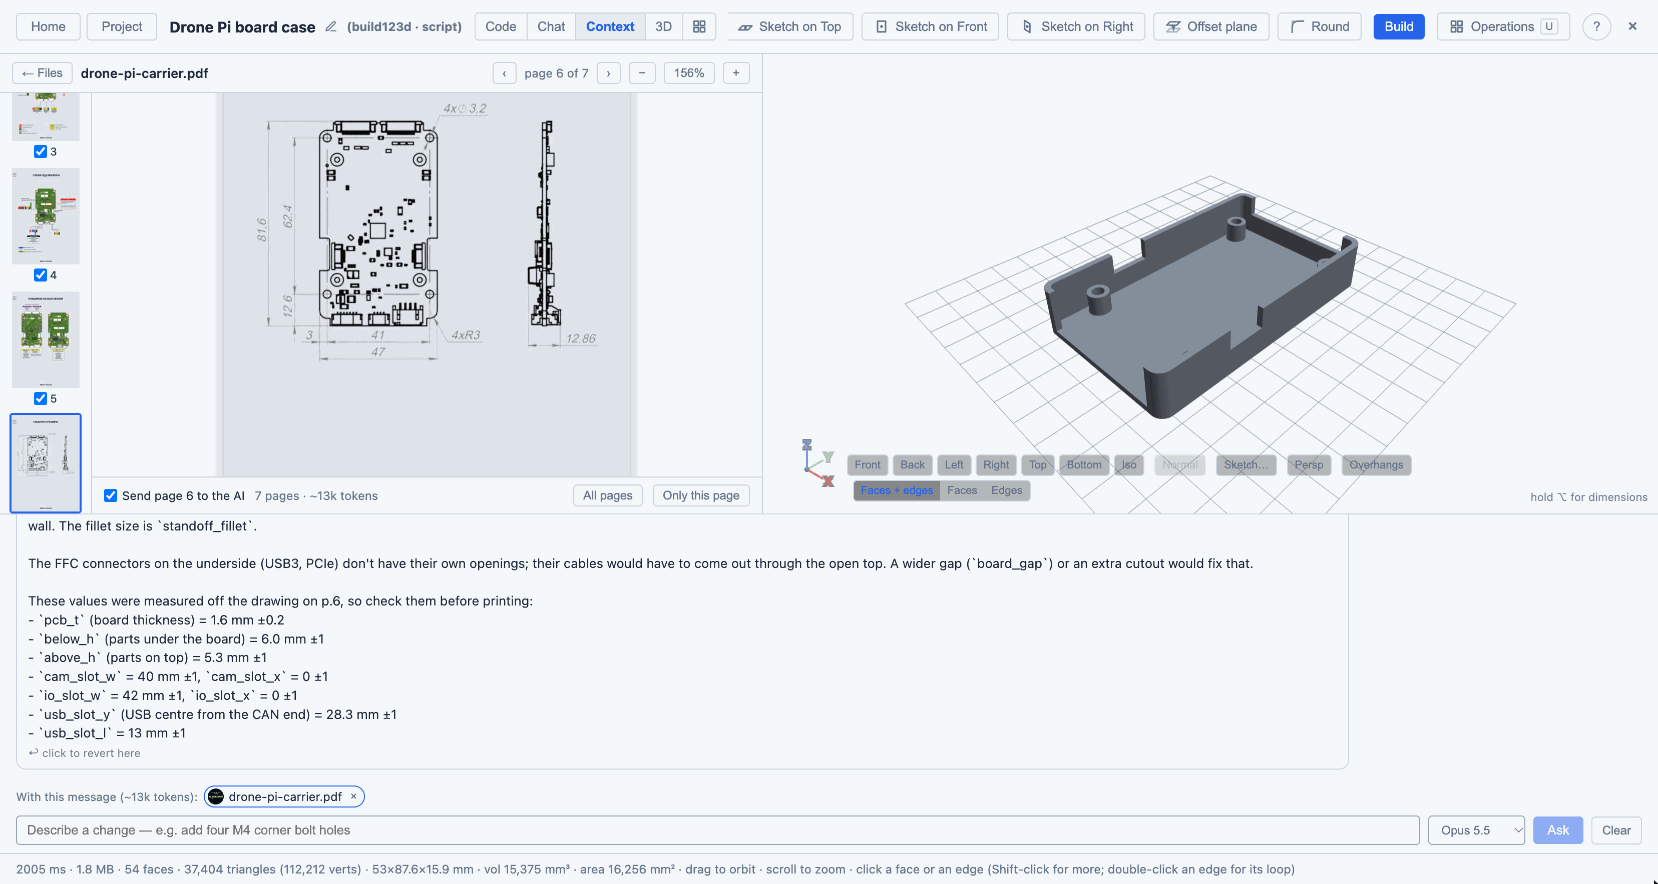
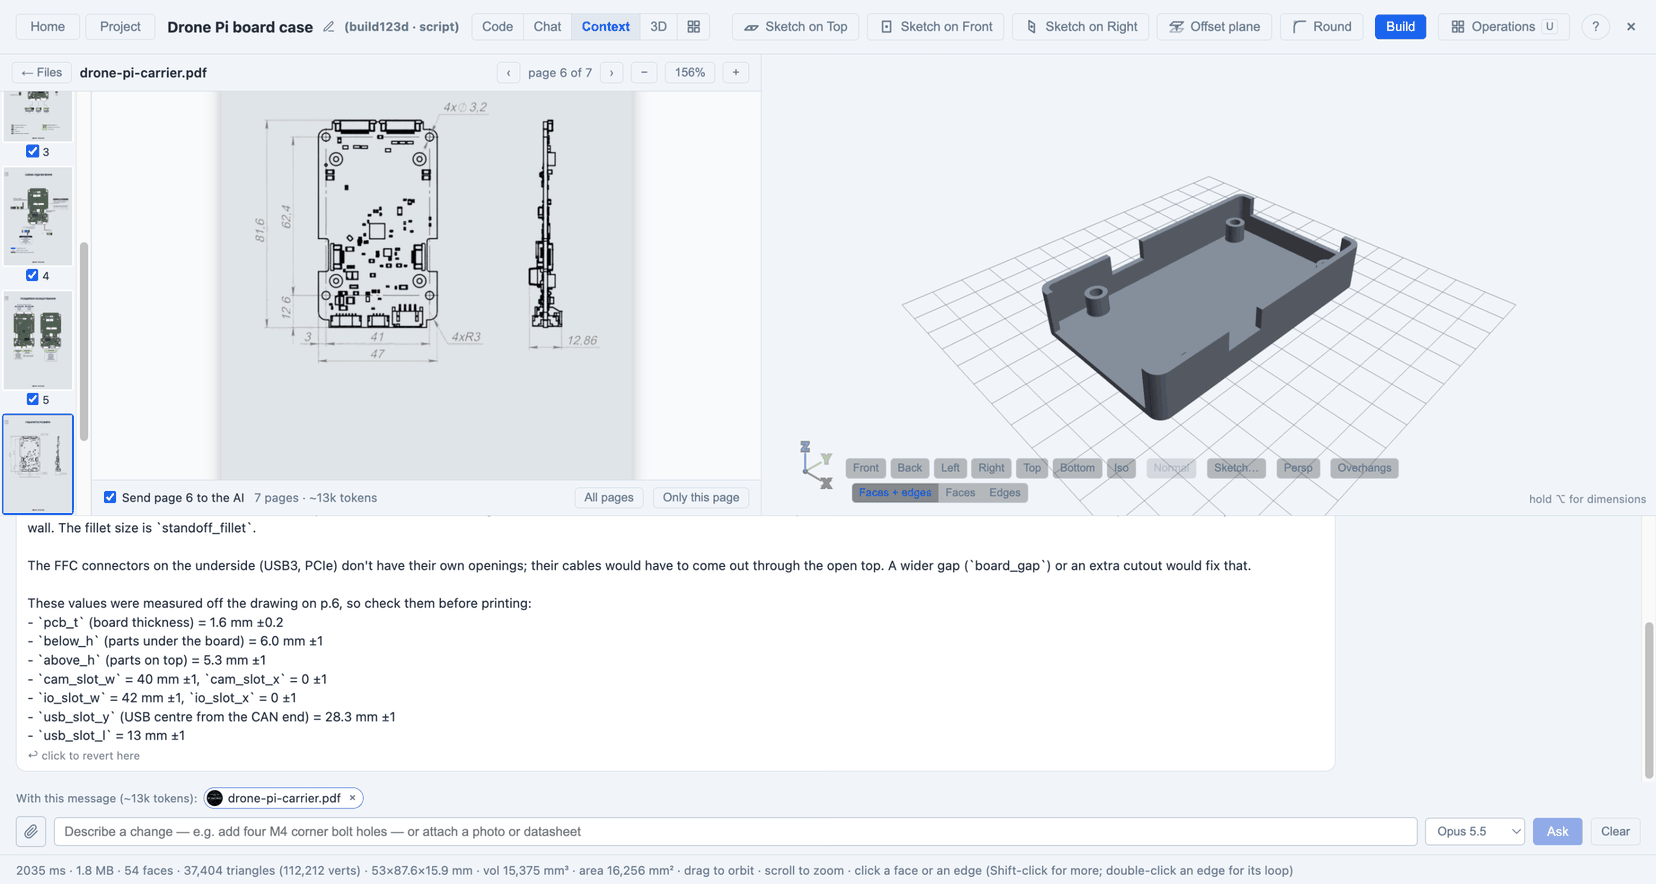
Chat: attach files with a paperclip button, a drop highlight, and an Attach button under AI questions
- A paperclip left of the message box opens a file picker (images and PDFs; phones
  offer the camera).
- Dragging a file over the chat box highlights it with "Drop to attach".
- The placeholder mentions attaching when there's room.
- When the AI's question asks for a photo, drawing or datasheet, an "Attach a file"
  button shows under it.
- A message sent while a file is uploading waits for the upload, so the file goes
  with it.
- Guide: Context files section and screenshot updated.

diff --git a/frontend/src/components/ScriptViewer.tsx b/frontend/src/components/ScriptViewer.tsx
@@ -79,7 +79,7 @@ import {
 import { OperationsPanel, Kbd } from './OperationsPanel';
 import { OpIcon, OPS_GRID_ICON } from './OpIcons';
 import { ContextChips, ContextPane, useContextFiles, type CtxColors } from './ContextPane';
-import { acceptable, chatUsageNote, filesToSend, seesSpend, skipList, spendLine, spendNote, usageLabel } from '@/build/contextFiles';
+import { acceptable, asksForFile, chatUsageNote, filesToSend, seesSpend, skipList, spendLine, spendNote, usageLabel } from '@/build/contextFiles';
 import { chooseModel, modelsStale } from '@/build/modelList';
 
 // the view buttons, in key order (1–6, then 0)
@@ -962,6 +962,13 @@ export function ScriptViewer({ onClose, onHome, onProject, sketchOnFace = false 
   const [skipCtx, setSkipCtx] = useState<ReadonlySet<string>>(new Set());
   const ctxPick = useRef<(() => void) | null>(null);
   const [chatUploading, setChatUploading] = useState('');
+  // a message sent while its file was still uploading: sent once the upload is in
+  const [sendQueued, setSendQueued] = useState<string | null>(null);
+  const [chatDragging, setChatDragging] = useState(false);
+  const chatFileRef = useRef<HTMLInputElement | null>(null);
+  // the message box's width, for a placeholder that fits
+  const [chatInputW, setChatInputW] = useState(0);
+  const chatInputObs = useRef<ResizeObserver | null>(null);
   // what the window shows beside the 3D view: the script, the chat, or nothing
   // (the 3D view maximised); the parameters are shown or hidden separately
   // (or the Operations grid); the keys reach it through refs, and the
@@ -2753,6 +2760,8 @@ export function ScriptViewer({ onClose, onHome, onProject, sketchOnFace = false 
   const sendChat = async (text?: string) => {
     const instruction = (text ?? ask).trim();
     if (!instruction || asking) return;
+    // a file still uploading goes with this message: wait for it (see the effect below)
+    if (chatUploading) { setSendQueued(instruction); return; }
     setAsking(true);
     const sent = filesToSend(ctxStore.files, skipCtx);
     const userMsg: ChatMessage = { role: 'user', text: instruction, at: Date.now(),
@@ -2793,6 +2802,14 @@ export function ScriptViewer({ onClose, onHome, onProject, sketchOnFace = false 
       setAsking(false);
     }
   };
+
+  // the upload is in and the skip set updated (same render): now send
+  useEffect(() => {
+    if (chatUploading || sendQueued === null) return;
+    setSendQueued(null);
+    void sendChat(sendQueued);
+  // eslint-disable-next-line react-hooks/exhaustive-deps
+  }, [chatUploading, sendQueued]);
 
   const rebuild = () => { setParamReject(null); saveDraft(code); build(code, 'build'); };
   const [exporting, setExporting] = useState<'stl' | 'step' | 'stl-parts' | 'dxf' | 'dxf-views' | null>(null);
@@ -2966,6 +2983,13 @@ export function ScriptViewer({ onClose, onHome, onProject, sketchOnFace = false 
                      modal: showHelp || showVersions || showProduction };
   // "or ask: …" on the help card: into the chat box, not sent
   const chatInputRef = useRef<HTMLInputElement | null>(null);
+  const setChatInputEl = useCallback((el: HTMLInputElement | null) => {
+    chatInputRef.current = el;
+    chatInputObs.current?.disconnect();
+    if (!el || typeof ResizeObserver === 'undefined') return;
+    chatInputObs.current = new ResizeObserver(() => setChatInputW(el.offsetWidth));
+    chatInputObs.current.observe(el);
+  }, []);
   const putInChat = (text: string) => {
     setAsk(text);
     setLayout('chat');
@@ -3155,6 +3179,12 @@ export function ScriptViewer({ onClose, onHome, onProject, sketchOnFace = false 
     setChatUploading('');
     chatInputRef.current?.focus();
   };
+  const pickChatFiles = () => chatFileRef.current?.click();
+  const paperclip = (size: number) => (
+    <svg width={size} height={size} viewBox="0 0 24 24" fill="none" stroke="currentColor" strokeWidth="1.9" strokeLinecap="round" strokeLinejoin="round" aria-hidden="true">
+      <path d="M21.44 11.05l-9.19 9.19a6 6 0 0 1-8.49-8.49l9.19-9.19a4 4 0 0 1 5.66 5.66l-9.2 9.19a2 2 0 0 1-2.83-2.83l8.49-8.48" />
+    </svg>
+  );
   const chatHistory = (
     <div ref={chatScrollRef} style={{ ...(layout === 'chat' ? { flex: 1, minHeight: 0 } : { maxHeight: '30vh' }), overflowY: 'auto', padding: '10px 16px',
                                       display: 'flex', flexDirection: 'column', gap: '7px' }}>
@@ -3184,6 +3214,15 @@ export function ScriptViewer({ onClose, onHome, onProject, sketchOnFace = false 
                 </span>
               )}
             </div>
+            {!mine && isQ && asksForFile(m.text) && (
+              <button onClick={pickChatFiles} disabled={!!chatUploading}
+                title="Answer with a photo, drawing or datasheet; add a sentence before you send"
+                style={{ marginTop: 4, display: 'inline-flex', alignItems: 'center', gap: 5, padding: '3px 9px',
+                         background: 'none', color: palette.accent ?? palette.text, border: `1px solid ${palette.border}`,
+                         borderRadius: '4px', fontSize: '12px', cursor: 'pointer' }}>
+                {paperclip(12)} Attach a file
+              </button>
+            )}
             {chatUsageNote(user, m.usage) && (
               <div title="This call: input tokens (of them, read from the prompt cache) · output tokens · cost"
                 style={{ fontSize: '10.5px', color: palette.textSecondary, marginTop: 2, paddingLeft: 4 }}>
@@ -3199,20 +3238,39 @@ export function ScriptViewer({ onClose, onHome, onProject, sketchOnFace = false 
     </div>
   );
   const chatInput = (
-  <div onDragOver={(e) => { if (e.dataTransfer.types.includes('Files')) e.preventDefault(); }}
-    onDrop={(e) => { const l = [...e.dataTransfer.files]; if (l.length) { e.preventDefault(); void attachToChat(l); } }}>
+  <div onDragOver={(e) => { if (e.dataTransfer.types.includes('Files')) { e.preventDefault(); setChatDragging(true); } }}
+    onDragLeave={(e) => { if (!e.currentTarget.contains(e.relatedTarget as Node | null)) setChatDragging(false); }}
+    onDrop={(e) => { setChatDragging(false); const l = [...e.dataTransfer.files]; if (l.length) { e.preventDefault(); void attachToChat(l); } }}
+    style={{ position: 'relative', outline: chatDragging ? `2px dashed ${palette.accent ?? palette.border}` : 'none', outlineOffset: -3 }}>
+  {chatDragging && (
+    <div style={{ position: 'absolute', inset: 0, zIndex: 2, pointerEvents: 'none', display: 'flex', alignItems: 'center',
+                  justifyContent: 'center', gap: 6, background: `${palette.background}d9`, color: palette.accent ?? palette.text,
+                  fontSize: '13px', fontWeight: 600 }}>
+      {paperclip(14)} Drop to attach
+    </div>
+  )}
+  <input ref={chatFileRef} type="file" multiple accept="image/*,application/pdf" style={{ display: 'none' }}
+    onChange={(e) => { const l = [...(e.target.files ?? [])]; e.target.value = ''; if (l.length) void attachToChat(l); }} />
   <ContextChips files={filesToSend(ctxStore.files, new Set())} skipped={skipCtx} c={ctxColors}
     onOpen={() => setLayout('context')}
     onSkip={(id, skip) => setSkipCtx((cur) => { const n = new Set(cur); if (skip) n.add(id); else n.delete(id); return n; })} />
   {(chatUploading || (ctxStore.error && layout !== 'context')) && (
     <div onClick={() => ctxStore.setError('')}
       style={{ padding: '4px 16px 0', fontSize: '12px', color: chatUploading ? palette.textSecondary : palette.danger }}>
-      {chatUploading ? `Attaching ${chatUploading}…` : ctxStore.error}
+      {chatUploading ? `Attaching ${chatUploading}…${sendQueued !== null ? ' Your message goes once it’s attached.' : ''}` : ctxStore.error}
     </div>
   )}
   <div style={{ display: 'flex', alignItems: 'center', gap: '8px', padding: '8px 16px' }}>
+  <button onClick={pickChatFiles} disabled={!!chatUploading} aria-label="Attach a file"
+    title="Attach a photo, drawing or datasheet (or drop or paste one here); the AI reads it with your message"
+    style={{ display: 'flex', alignItems: 'center', justifyContent: 'center', width: 30, height: 30, flex: 'none',
+             background: 'none', color: palette.textSecondary, border: `1px solid ${palette.inputBorder}`,
+             borderRadius: '4px', cursor: !chatUploading ? 'pointer' : 'default',
+             opacity: !chatUploading ? 1 : 0.5 }}>
+    {paperclip(15)}
+  </button>
   <input
-    ref={chatInputRef}
+    ref={setChatInputEl}
     value={ask}
     onChange={(e) => setAsk(e.target.value)}
     onKeyDown={(e) => { if (e.key === 'Enter') void sendChat(); }}
@@ -3221,7 +3279,9 @@ export function ScriptViewer({ onClose, onHome, onProject, sketchOnFace = false 
       const l = [...e.clipboardData.files];
       if (l.length) { e.preventDefault(); void attachToChat(l); }
     }}
-    placeholder={sel.length ? 'e.g. chamfer this edge 2mm  (targets your selection)' : 'Describe a change — e.g. add four M4 corner bolt holes'}
+    placeholder={sel.length ? 'e.g. chamfer this edge 2mm  (targets your selection)'
+                 : chatInputW >= 560 ? 'Describe a change — e.g. add four M4 corner bolt holes — or attach a photo or datasheet'
+                 : chatInputW >= 330 ? 'Describe a change — or attach a photo or datasheet' : 'Describe a change'}
     disabled={asking}
     style={{ flex: 1, padding: '6px 10px', background: palette.inputBg,
              border: `1px solid ${palette.inputBorder}`, borderRadius: '4px',

diff --git a/frontend/src/build/contextFiles.test.ts b/frontend/src/build/contextFiles.test.ts
@@ -1,7 +1,7 @@
 import { describe, expect, it } from 'vitest';
 import type { ContextFile, ContextFiles } from '@/api/client';
 import {
-  acceptable, chatUsageNote, detailLabel, seesSpend, spendLine, spendNote, usageLabel, fileTokens, filesToSend,
+  acceptable, asksForFile, chatUsageNote, detailLabel, seesSpend, spendLine, spendNote, usageLabel, fileTokens, filesToSend,
   includedPages, pageRanges, skipList, togglePage, tokensLabel,
 } from './contextFiles';
 
@@ -123,5 +123,17 @@ describe('the AI spend', () => {
   it('notes an edit’s spend only when the response carries it', () => {
     expect(spendNote({ tokens_in: 900, tokens_out: 80, cost_usd: 0.004 })).toBe('900 in · 80 out · $0.004');
     expect(spendNote({})).toBeUndefined();   // a normal user's response: no spend fields
+  });
+});
+
+describe('a question that asks for a file', () => {
+  it('spots a request for a photo, drawing or datasheet', () => {
+    expect(asksForFile('Could you send a photo of the board from above?')).toBe(true);
+    expect(asksForFile('Do you have a drawing or the datasheet with the hole positions?')).toBe(true);
+    expect(asksForFile('Can you attach an image showing the measurements?')).toBe(true);
+  });
+  it('leaves other questions and errors alone', () => {
+    expect(asksForFile('Should the holes be M3 or M4?')).toBe(false);
+    expect(asksForFile('⚠ The photo upload failed')).toBe(false);
   });
 });

diff --git a/frontend/src/build/contextFiles.ts b/frontend/src/build/contextFiles.ts
@@ -123,3 +123,10 @@ export function spendLine(u: Pick<User, 'is_staff' | 'is_superuser'> | null | un
   const { document: d, all_time: a } = usage;
   return `AI spend · this model $${d.cost_usd.toFixed(3)} (${d.edits}) · all-time $${a.cost_usd.toFixed(2)} (${a.edits})`;
 }
+
+/** Whether the AI's question asks for something the user would answer with a
+ *  file: a photo, a drawing, a datasheet, a scan (not an error message). */
+export function asksForFile(text: string): boolean {
+  if (text.startsWith('⚠')) return false;
+  return /\b(photos?|pictures?|images?|drawings?|datasheets?|data sheets?|screenshots?|scans?|pdfs?|attach\w*|upload\w*)\b/i.test(text);
+}

diff --git a/docs/feature-plan.md b/docs/feature-plan.md
@@ -34,7 +34,7 @@ operations cost nothing to support, they just don't get UI.
 - Revolve: a closed sketch profile turned round an axis (sketch V/H axis, construction or reference line; a straight part edge; a cylinder's centre line; X/Y/Z) as new body, join or cut; full or partial angle, both ways, flip, numbers in P; default axis picked from the profile, crossings marked red and refused; rotation handle on the preview; supported in mirror/pattern steps
 - Extrude up to face (a slanted wall, a cylinder, with an offset past or short of it, the face picked in the view) and up to next (each region to its own first face: standoffs to the floor, a set screw into the bore), in the extrude dialog's Extent; the face follows the part; supported in mirror/pattern steps
 - Overhang highlight (H, Inspect): faces past a threshold (30–70°, default 45°) shaded steep or ceiling by angle, per fragment; hover for the angle; a print bed face other than Z (stored in the part, matched each build, also used by auto_round's bed protection); panel with projected areas and region count; Ask AI to fix puts a request with the flagged regions in the chat box
-- Context files: datasheets and photos the AI reads, with cited dimensions (step 1 of 3)
+- Context files: datasheets and photos the AI reads, with cited dimensions (step 1 of 3); attached from the chat too (a paperclip button, drop or paste, an Attach a file button under AI questions that ask for a photo or datasheet)
 - Sketcher gaps: H/V between any two points; point on line / circle and symmetric about a line; corner fillet (radius a dimension, clamped when too large); trim (splits polylines and circles, keeps the constraints that still apply); offset of a closed shape, circle or chain (arcs or miters, follows its source, distance a dimension, unlink); project part edges onto a face/plane sketch (follow the part, broken when the edge goes)
 - CAM for sketches (2D editor): Setup (machine with a default material, tool library with cutting data per material, carbon fibre included, stock, origin, clamps), Plan (operations with defaults worked out from the setup, AI proposals with reasons to accept, per-value sources, lines that meet picked as one outline, Fix with AI can change an operation's shapes), Run (checks, simulator, steps at the machine, G-code)
 

diff --git a/docs/guide/README.md b/docs/guide/README.md
@@ -192,6 +192,15 @@ faces of a part:
 - Attach datasheets (PDF) and photos to a part or a whole project.
 - The AI reads them when designing, and cites the page or photo each dimension came
   from.
+- To add one while you chat, click the paperclip left of the message box, or drop or
+  paste a file into the chat. On a phone, the paperclip offers the camera.
+- The files go with your next message; they show as chips above the box, and the sent
+  message lists them after 📎. Click × on a chip to leave a file out.
+- If you send while a file is still uploading, the message waits for it.
+- When the AI asks for a photo, a drawing or a datasheet, an **Attach a file** button
+  shows under its question. Pick the file, add a sentence and send.
+- The **Context** tab lists all the files, and lets you choose which PDF pages the AI
+  sees.
 
 ### Import and export
 
